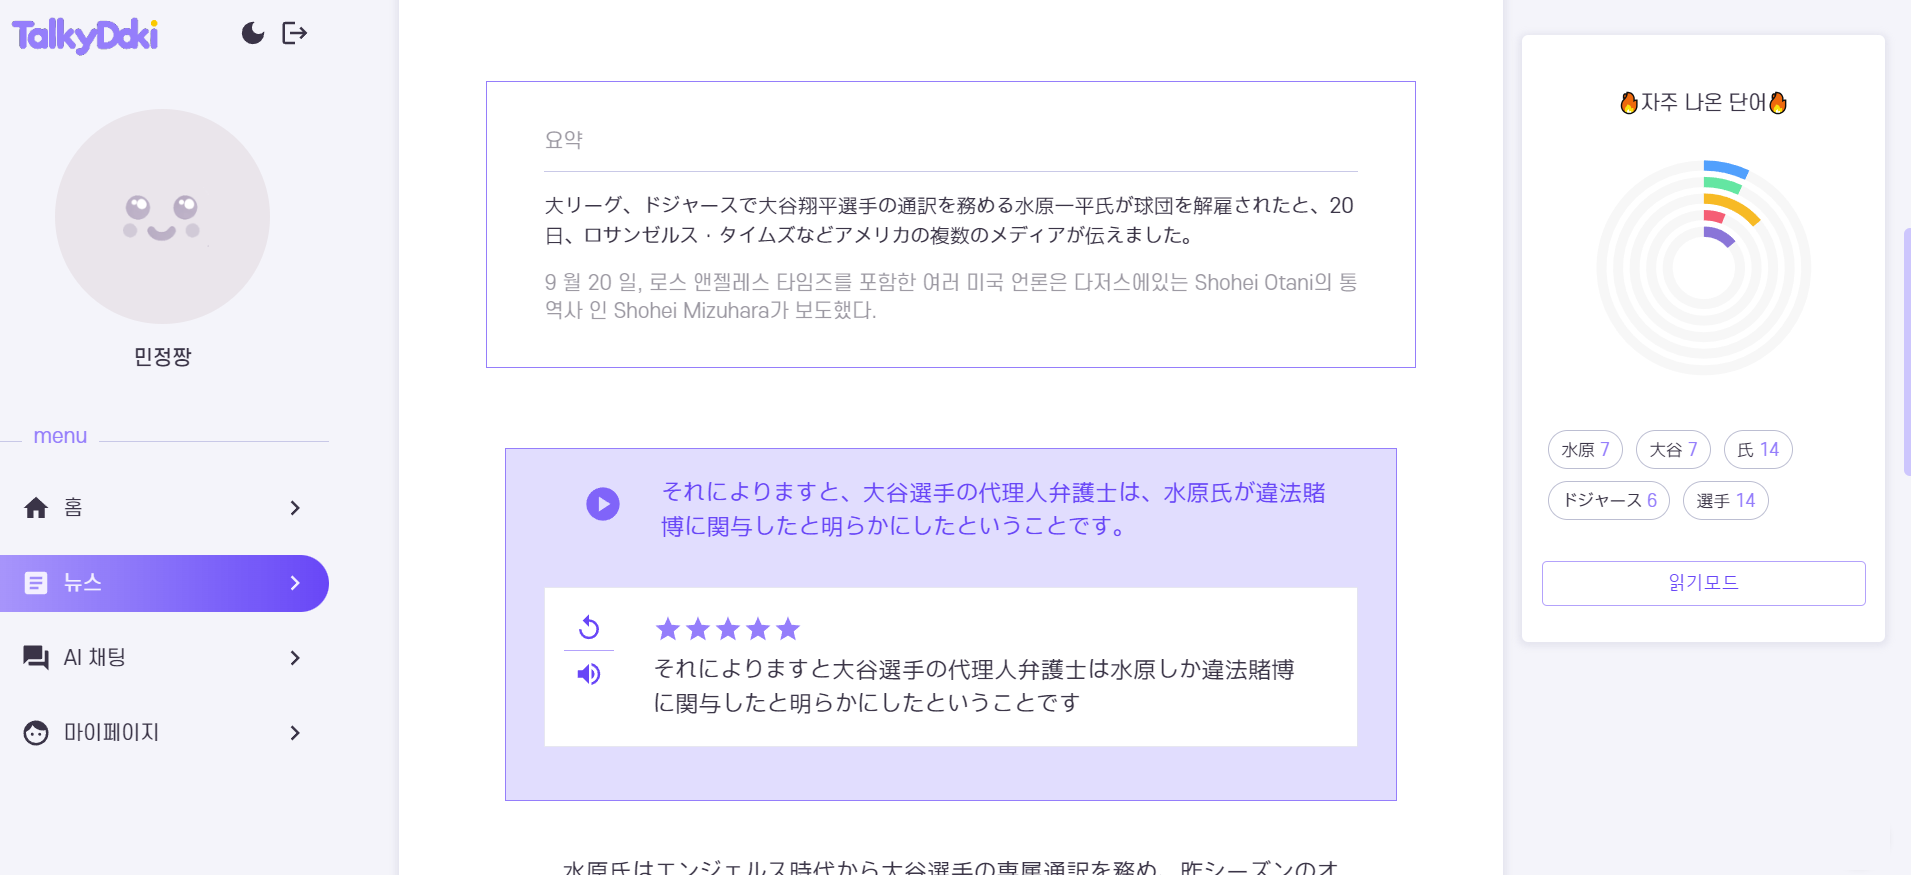
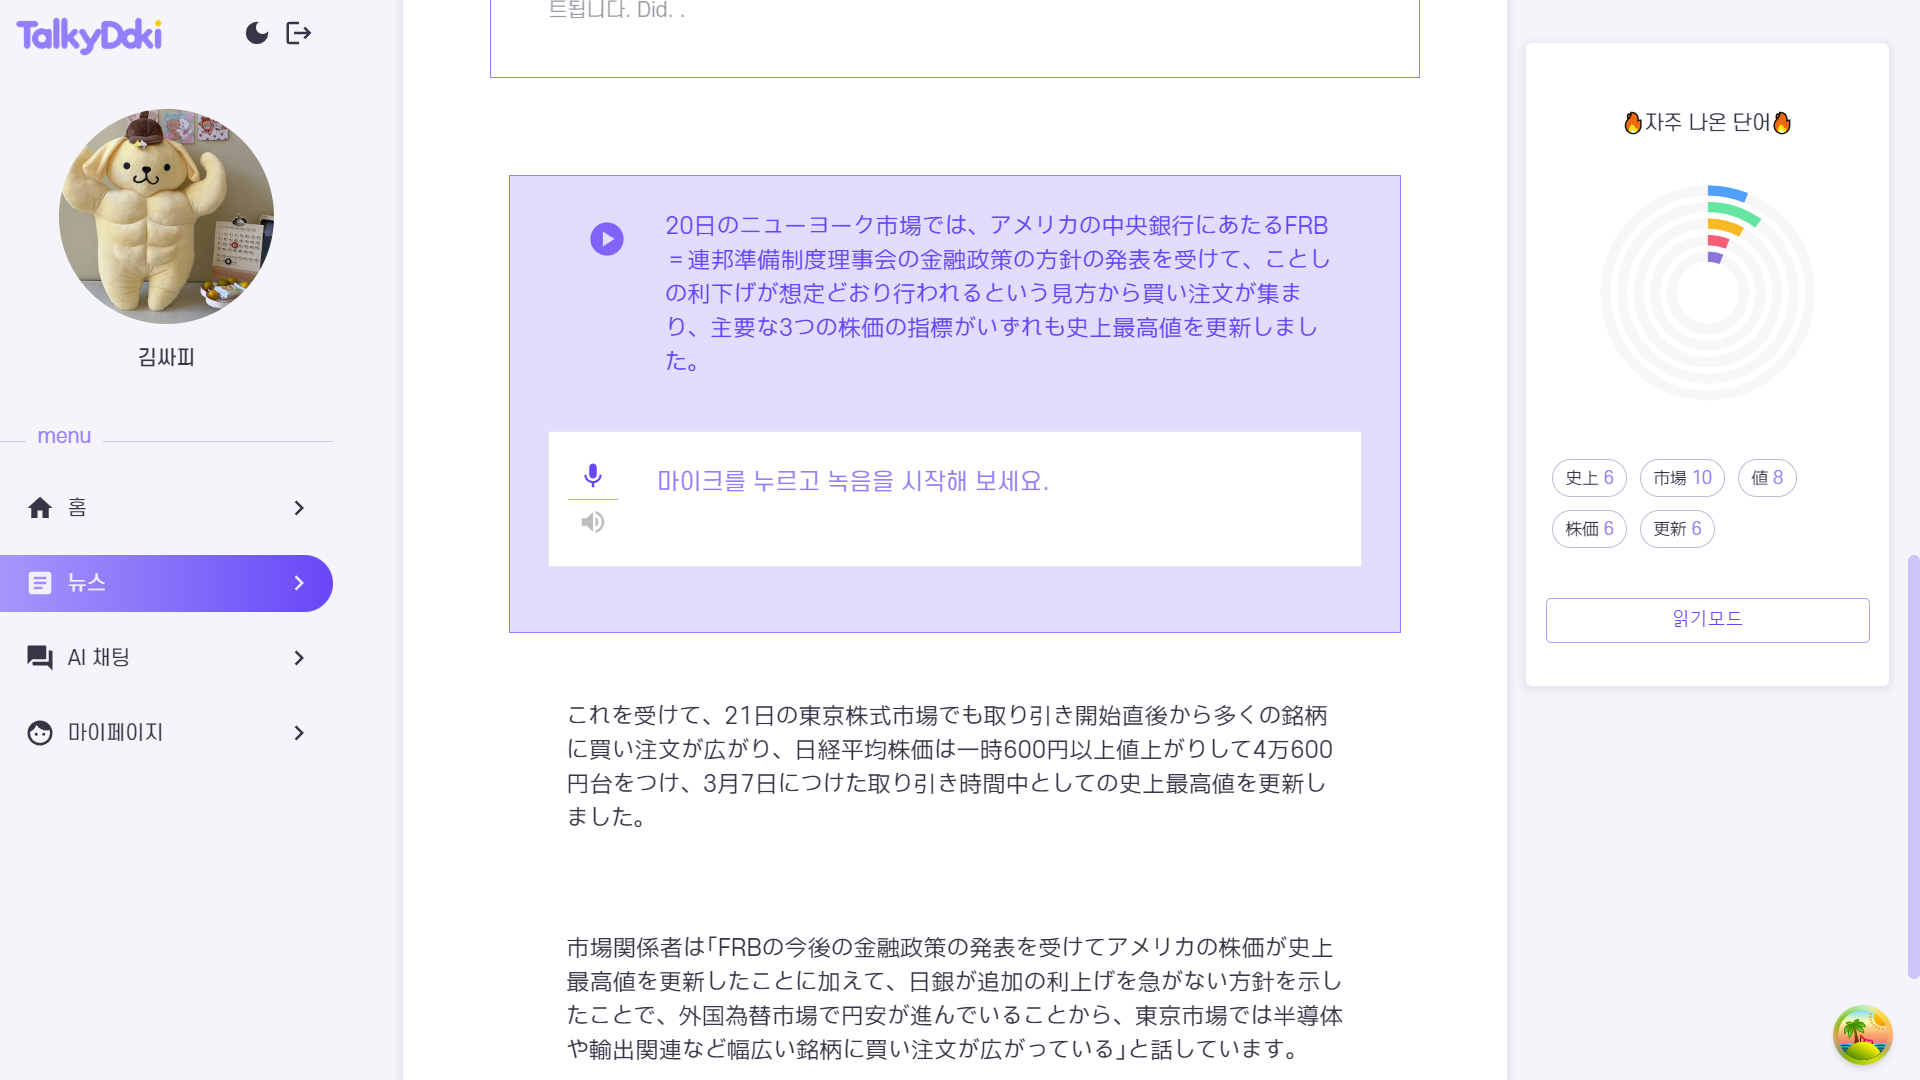
fix: 사용자 뉴스 데이터 없을 시 뉴스 캐러셀 미표시

diff --git a/FrontEnd/src/components/Main/KeywordSection/UserKeywordChart.tsx b/FrontEnd/src/components/Main/KeywordSection/UserKeywordChart.tsx
@@ -1,59 +1,38 @@
+import { useUserKeyword } from "@/api/profileApi";
 import { KeywordChartWrapper } from "@/styles/Main/keywordChart";
 import { Divider } from "@mui/material";
 import { ApexOptions } from "apexcharts";
+import { useEffect, useState } from "react";
 import ReactApexChart from "react-apexcharts";
 import { useTheme } from "styled-components";
 
 function UserKeywordChart() {
   const theme = useTheme();
+  const { data, isLoading } = useUserKeyword();
+  const [keywords, setKeywords] = useState<{ x: string; y: number }[]>([]);
+
+  useEffect(() => {
+    if (data) {
+      data.forEach((each, idx) => {
+        if (idx < 10) {
+          const newValue: { x: string; y: number } = { x: "", y: 0 };
+          newValue.x = each.keyword;
+          newValue.y = each.readCount;
+          setKeywords((prev) => [...prev, newValue]);
+        }
+      });
+    }
+  }, [data]);
+
+  if (isLoading || !data) return <></>;
+
   const chartData: {
     series: ApexOptions["series"];
     options: ApexOptions;
   } = {
     series: [
       {
-        data: [
-          {
-            x: "New Delhi",
-            y: 218,
-          },
-          {
-            x: "Kolkata",
-            y: 149,
-          },
-          {
-            x: "Mumbai",
-            y: 184,
-          },
-          {
-            x: "Ahmedabad",
-            y: 55,
-          },
-          {
-            x: "Bangaluru",
-            y: 84,
-          },
-          {
-            x: "Pune",
-            y: 31,
-          },
-          {
-            x: "Chennai",
-            y: 70,
-          },
-          {
-            x: "Jaipur",
-            y: 30,
-          },
-          {
-            x: "Surat",
-            y: 44,
-          },
-          {
-            x: "Hyderabad",
-            y: 68,
-          },
-        ],
+        data: keywords,
       },
     ],
     options: {

diff --git a/FrontEnd/src/components/Main/NewsSection/TimerCarousel.tsx b/FrontEnd/src/components/Main/NewsSection/TimerCarousel.tsx
@@ -81,26 +81,30 @@ function TimerCarousel({ width, height, news }: Props) {
 
       {/* 캐러셀 내용물 컨테이너 */}
       <div className="track" style={{ left: `${now * -100}%` }}>
-        {news.map((each, idx) => (
-          <MainCarouselItem
-            key={idx}
-            $width={width}
-            $height={height}
-            $bgImg={each.newsImages[0] ? each.newsImages[0] : DefaultImage}
-            onClick={() => {
-              console.log(each.newsId);
-              navigate(`/news/detail`, { state: { newsId: each.id } });
-            }}
-          >
-            <div className="titleBox">
-              <div className="koTitle">{each.titleTranslated}</div>
-              <div className="jpTitle">
-                {" "}
-                {sentenceMaker(newsSplitter(each.title)[0])}
+        {news.map((each, idx) => {
+          const newsImage =
+            each.newsImages != null ? each.newsImages[0] : DefaultImage;
+          return (
+            <MainCarouselItem
+              key={idx}
+              $width={width}
+              $height={height}
+              $bgImg={newsImage}
+              onClick={() => {
+                console.log(each.newsId);
+                navigate(`/news/detail`, { state: { newsId: each.id } });
+              }}
+            >
+              <div className="titleBox">
+                <div className="koTitle">{each.titleTranslated}</div>
+                <div className="jpTitle">
+                  {" "}
+                  {sentenceMaker(newsSplitter(each.title)[0])}
+                </div>
               </div>
-            </div>
-          </MainCarouselItem>
-        ))}
+            </MainCarouselItem>
+          );
+        })}
       </div>
     </TimerCarouselWrapper>
   );

diff --git a/FrontEnd/src/components/Intro/contents/PageSection.tsx b/FrontEnd/src/components/Intro/contents/PageSection.tsx
@@ -39,7 +39,7 @@ function PageSection({}: Props) {
             <h1>오늘의 뉴스</h1>
             <div>
               사용자의 취향을 분석하여 일본어 뉴스를 추천해 드립니다. 뉴스를
-              듣고, 쉐도잉한 후 발음을 평가받아보세요
+              듣고, 따라 읽고, 모르는 표현을 기록하며 말하기에 익숙해져 보세요.
             </div>
           </div>
         </div>
@@ -50,10 +50,21 @@ function PageSection({}: Props) {
         >
           <img src={News} alt="news" className="image" />
           <div className="desc">
-            <h1>오늘의 뉴스</h1>
+            <h1>테마별 회화</h1>
             <div>
-              사용자의 취향을 분석하여 일본어 뉴스를 추천해 드립니다. 뉴스를
-              듣고, 쉐도잉한 후 발음을 평가받아보세요
+              식당, 편의점, 호텔, 비즈니스 등, AI와 함께 상황에 맞는 여러가지
+              테마의 회화를 연습할 수 있어요.
+            </div>
+          </div>
+        </div>
+        {/* p3 */}
+        <div className="page" style={{ backgroundColor: "var(--text)" }}>
+          <img src={News} alt="news" className="image" />
+          <div className="desc">
+            <h1>사용자 분석</h1>
+            <div>
+              학습을 진행하고 학습량을 측정하여 학습 진도를 확인하고, 다른
+              유저들의 평균을 확인하여 나의 레벨을 파악할 수 있어요.
             </div>
           </div>
         </div>

diff --git a/FrontEnd/src/api/profileApi.tsx b/FrontEnd/src/api/profileApi.tsx
@@ -2,10 +2,11 @@ import {
   PasswordChangeParams,
   ProfileUpdateParams,
 } from "@/interface/AuthInterface";
+import { UserKeywordInterface } from "@/interface/UserInterface";
 import { useSetISModalOn, useSetModalContent } from "@/stores/modalStore";
 import { useSetPasswordErrors } from "@/stores/signUpStore";
 import { customAxios } from "@/util/auth/customAxios";
-import { useMutation, useQueryClient } from "@tanstack/react-query";
+import { useMutation, useQuery, useQueryClient } from "@tanstack/react-query";
 import { useNavigate } from "react-router-dom";
 
 // 이미지 업로드
@@ -89,5 +90,22 @@ export const usePasswordChange = () => {
         }
       }
     },
+  });
+};
+
+// 사용자 키워드 불러오는 hook
+export const useUserKeyword = () => {
+  return useQuery({
+    queryKey: ["userKeywords"],
+    queryFn: () => customAxios.get("/keywords/member"),
+    select: ({ data }) => {
+      if (data.dataHeader.successCode == 0) {
+        return data.dataBody as UserKeywordInterface[];
+      } else {
+        return [] as UserKeywordInterface[];
+      }
+    },
+    staleTime: 1000 * 60 * 60, // 1시간
+    gcTime: 1000 * 60 * 60, // 1시간
   });
 };

diff --git a/FrontEnd/src/components/News/Detail/ui/WordSearch.tsx b/FrontEnd/src/components/News/Detail/ui/WordSearch.tsx
@@ -19,6 +19,7 @@ function WordSearch() {
   const searchWord = useSearchWord();
   const searchRef = useRef<HTMLDivElement>(null);
   const isMobile = useIsMobile();
+  const [isAdd, setIsAdd] = useState(false);
   const [xy, setXy] = useState({ x: 0, y: 0 });
 
   const [word, setWord] = useState<WordSearchInterface>({
@@ -52,6 +53,7 @@ function WordSearch() {
     return () => {
       window.removeEventListener("wheel", moveHandler);
       window.removeEventListener("mousedown", clickHandler);
+      setIsAdd(false);
     };
   }, [isSearchOn]);
 
@@ -106,8 +108,9 @@ function WordSearch() {
             <div className="jp ">{word.japanese}</div>
             {word.id && (
               <StarIcon
-                className=" addIcon"
+                className={`addIcon ${isAdd && "added"}`}
                 onClick={() => {
+                  setIsAdd(true);
                   if (word.id != undefined) {
                     return addVoca(word.id);
                   }

diff --git a/FrontEnd/src/styles/News/Detail/container.tsx b/FrontEnd/src/styles/News/Detail/container.tsx
@@ -153,12 +153,37 @@ export const WordSearchWrapper = styled.div`
 
     .addIcon {
       cursor: pointer;
-      /* color: var(--main); */
+
+      &:hover,
+      &:active {
+        color: var(--main);
+      }
+
+      &:active {
+        transform: scale(0.7);
+      }
+
+      &.added {
+        color: var(--main);
+        animation: clickAnimation 0.3s ease;
+      }
     }
   }
 
   @media screen and (max-width: 992px) {
     width: calc(100vw - 10px);
+  }
+
+  @-webkit-keyframes clickAnimation {
+    0% {
+      transform: scale(0.7);
+    }
+    50% {
+      transform: scale(1.2);
+    }
+    100% {
+      transform: scale(1);
+    }
   }
 `;
 

diff --git a/FrontEnd/src/styles/Intro/containers.tsx b/FrontEnd/src/styles/Intro/containers.tsx
@@ -157,11 +157,11 @@ export const PageSectionWrapper = styled(SectionBase)`
 
     .desc {
       width: 30%;
-      padding: 3vh 3vw;
+      padding: 20vh 3vw;
       height: 100vh;
       display: flex;
       flex-direction: column;
-      justify-content: center;
+      justify-content: start;
       align-items: end;
 
       * {
@@ -208,6 +208,7 @@ export const PageSectionWrapper = styled(SectionBase)`
       }
 
       .desc {
+        padding: 3vh 3vw;
         width: 80%;
         height: fit-content;
       }

diff --git a/FrontEnd/src/components/Main/NewsSection/TodaysNews.tsx b/FrontEnd/src/components/Main/NewsSection/TodaysNews.tsx
@@ -3,9 +3,10 @@ import TimerCarousel from "@/components/Main/NewsSection/TimerCarousel";
 import { useRecommendNews } from "@/api/newsApi";
 
 function TodaysNews() {
-  const { data } = useRecommendNews();
+  const { data, isLoading } = useRecommendNews();
 
-  if (!data) return <></>;
+  if (isLoading) return <></>;
+  if (!data || !data[0]) return <></>;
 
   return (
     <>

diff --git a/FrontEnd/src/interface/UserInterface.tsx b/FrontEnd/src/interface/UserInterface.tsx
@@ -8,3 +8,9 @@ export interface UserInterface {
   profileImage: string | null;
   role: string;
 }
+
+// 유저 키워드 인터페이스
+export interface UserKeywordInterface {
+  keyword: string;
+  readCount: number;
+}
